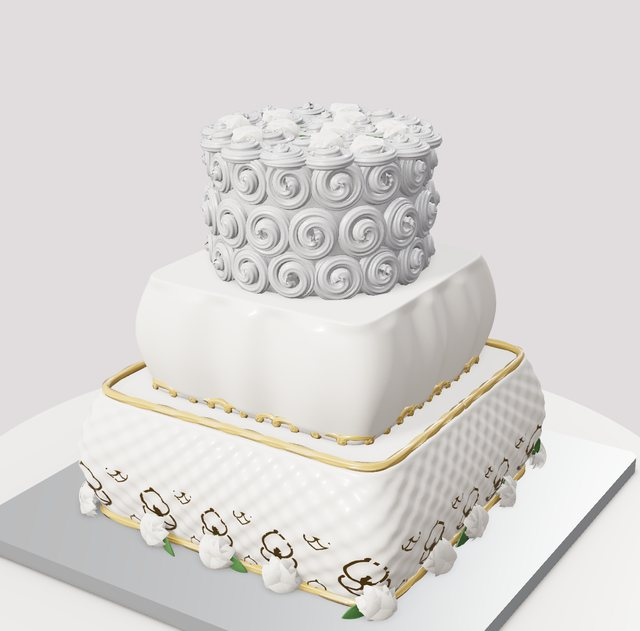
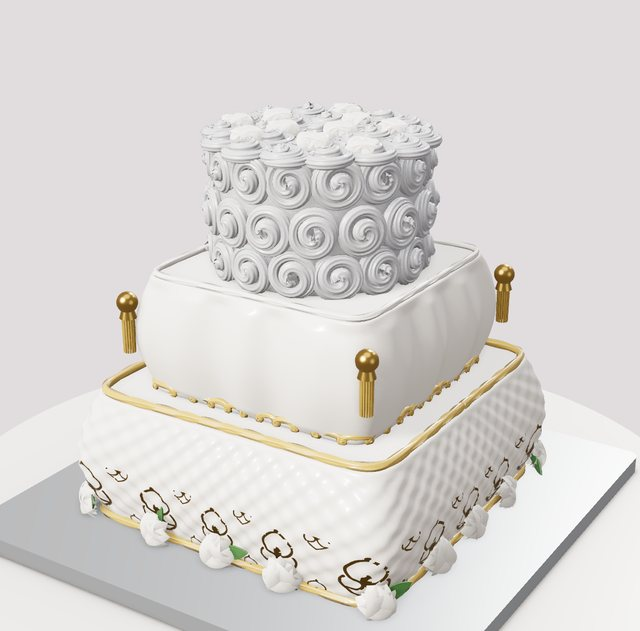
Signature pillows: gold corner tassels, piped pillow seam; new Gold Tassels decor
Claude-Session: https://claude.ai/code/session_016sN14hzH19WJ5zrp8o2QGp

diff --git a/studio.html b/studio.html
@@ -1555,6 +1555,11 @@ function pillowTopParts(q,c,mode,dc){const N=40,g=new T.PlaneGeometry(2,2,N,N);g
 DECOR.pillowtop={label:'Puffy Pillow Top',layouts:['cluster'],layout:'cluster',count:1,max:1,color:'#fbf7f1',colors:['#fbf7f1','#f3d6d9','#c9dbef'],sp:3,side:'up',sink:0,tilt:[0,0],spin:0,make:pillowTopParts};
 DECOR_ICONS.pillowtop=di('<path d="M6 22q14-14 28 0q-14 4-28 0z" fill="#fbf7f1" stroke="#d9cdbd"/><circle cx="6" cy="22" r="1.6" fill="#d4ae5a"/><circle cx="34" cy="22" r="1.6" fill="#d4ae5a"/>');
 {const c=DECOR_CATS.find(x=>x.key==='signature');void 0}
+// ---- gold tassels for pillow corners ----
+function tasselParts(q,c){const b=new T.SphereGeometry(.16,16,12);b.translate(0,0,.12);const cap=new T.CylinderGeometry(.09,.13,.14,14);cap.translate(0,-.17,.12);const fr=[];for(let i=0;i<14;i++){const a=i/14*2*PI,g=new T.CylinderGeometry(.022,.016,.55,5);g.translate(Math.cos(a)*.08,-.5,.12+Math.sin(a)*.08);fr.push(g)}return[[sgMat.metal(c),mg([b,cap])],[dmat(c,{r:.5,metal:.5}),mg(fr)]]}
+DECOR.tassel={label:'Gold Tassels',layouts:['band'],layout:'band',count:4,max:8,color:'#d4ae5a',colors:['#d4ae5a','#c9ccd2','#fbf7f1'],sp:1,roll:0,sink:0,embed:-.05,make:tasselParts};
+DECOR_ICONS.tassel=di('<circle cx="20" cy="10" r="4" fill="#d4ae5a"/><path d="M16 14h8l3 18H13z" fill="#d4ae5a"/>');
+{const c=DECOR_CATS.find(x=>x.key==='signature');c.items.push('tassel')}
 
 // ---------- Signature cakes: Sprinkle Me Silly's real cakes, rebuilt in the Studio ----------
 const SIG='Signature Cakes';
@@ -1583,7 +1588,7 @@ THEMES.unshift(
   newTier(8,6.2,{color:'#ffffff',finish:'fondant',print:'cow',printColor:'#1d1b1f',top:'none',bottom:'none',decor:[DC('cowface','band',1,{color:'#f3b6c8',size:300,R:4,rot:55,y:.3}),DC('cowear','band',1,{color:'#f3b6c8',size:200,rot:-25,y:2.6}),DC('cowear','band',1,{color:'#f3b6c8',size:200,rot:135,y:2.6}),DC('cowtop','cluster',1,{color:'#f3a6c0',size:190,center:true,face:95})]})]}},
  {key:'sig_pillows',name:'Gold Damask Pillows',tag:SIG,blurb:'A pillow cake: a base tier in gold damask with a ring of ivory roses, a puffy pleated pillow with pinched corners and gold tassels, and a silver rose dome topped with ivory roses.',d:{board:'silver',boardShape:'square',topper:'none',tiers:[
   newTier(10,3.6,{shape:'square',color:'#fbf7f1',finish:'fondant',texture:'dimple',prof:'pillow',top:'rope',pipe:'#d4ae5a',bottom:'rope',bottomColor:'#d4ae5a',stencil:{pattern:'damask',color:'#d4ae5a',size:1.8,height:1.8,y:-.8},decor:[DC('roses','band',16,{color:'#fbf7f1',size:130,y:-1.4})]}),
-  newTier(7.5,3.2,{shape:'square',color:'#fbf7f1',finish:'fondant',texture:'ruffle',prof:'pillow',top:'none',bottom:'scrolls',bottomColor:'#d4ae5a'}),
+  newTier(7.5,3.2,{shape:'square',color:'#fbf7f1',finish:'fondant',texture:'ruffle',prof:'pillow',top:'rope',pipe:'#fbf7f1',bottom:'scrolls',bottomColor:'#d4ae5a',decor:[DC('tassel','band',4,{color:'#d4ae5a',size:180,rot:45,y:.9})]}),
   newTier(5.5,3.4,{color:'#c9ccd2',texture:'rosettes',prof:'dome',top:'none',bottom:'none',decor:[DC('roses','cluster',10,{color:'#fbf7f1',size:130})]})]}},
  {key:'sig_ruffles',name:'Forever Ruffles',tag:SIG,blurb:'Four ivory fondant tiers with a sweep of ruffles, a lace band and a clean top tier ready for your script topper.',d:{board:'silver',topper:'none',tiers:[
   newTier(10,5,{color:'#fbf8f2',finish:'fondant',texture:'ruffle',top:'pearls',pipe:'#fbf8f2',bottom:'pearls',bottomColor:'#fbf8f2'}),

diff --git a/tools/signature-decor.js b/tools/signature-decor.js
@@ -223,6 +223,11 @@ function pillowTopParts(q,c,mode,dc){const N=40,g=new T.PlaneGeometry(2,2,N,N);g
 DECOR.pillowtop={label:'Puffy Pillow Top',layouts:['cluster'],layout:'cluster',count:1,max:1,color:'#fbf7f1',colors:['#fbf7f1','#f3d6d9','#c9dbef'],sp:3,side:'up',sink:0,tilt:[0,0],spin:0,make:pillowTopParts};
 DECOR_ICONS.pillowtop=di('<path d="M6 22q14-14 28 0q-14 4-28 0z" fill="#fbf7f1" stroke="#d9cdbd"/><circle cx="6" cy="22" r="1.6" fill="#d4ae5a"/><circle cx="34" cy="22" r="1.6" fill="#d4ae5a"/>');
 {const c=DECOR_CATS.find(x=>x.key==='signature');void 0}
+// ---- gold tassels for pillow corners ----
+function tasselParts(q,c){const b=new T.SphereGeometry(.16,16,12);b.translate(0,0,.12);const cap=new T.CylinderGeometry(.09,.13,.14,14);cap.translate(0,-.17,.12);const fr=[];for(let i=0;i<14;i++){const a=i/14*2*PI,g=new T.CylinderGeometry(.022,.016,.55,5);g.translate(Math.cos(a)*.08,-.5,.12+Math.sin(a)*.08);fr.push(g)}return[[sgMat.metal(c),mg([b,cap])],[dmat(c,{r:.5,metal:.5}),mg(fr)]]}
+DECOR.tassel={label:'Gold Tassels',layouts:['band'],layout:'band',count:4,max:8,color:'#d4ae5a',colors:['#d4ae5a','#c9ccd2','#fbf7f1'],sp:1,roll:0,sink:0,embed:-.05,make:tasselParts};
+DECOR_ICONS.tassel=di('<circle cx="20" cy="10" r="4" fill="#d4ae5a"/><path d="M16 14h8l3 18H13z" fill="#d4ae5a"/>');
+{const c=DECOR_CATS.find(x=>x.key==='signature');c.items.push('tassel')}
 
 // ---------- Signature cakes: Sprinkle Me Silly's real cakes, rebuilt in the Studio ----------
 const SIG='Signature Cakes';
@@ -251,7 +256,7 @@ THEMES.unshift(
   newTier(8,6.2,{color:'#ffffff',finish:'fondant',print:'cow',printColor:'#1d1b1f',top:'none',bottom:'none',decor:[DC('cowface','band',1,{color:'#f3b6c8',size:300,R:4,rot:55,y:.3}),DC('cowear','band',1,{color:'#f3b6c8',size:200,rot:-25,y:2.6}),DC('cowear','band',1,{color:'#f3b6c8',size:200,rot:135,y:2.6}),DC('cowtop','cluster',1,{color:'#f3a6c0',size:190,center:true,face:95})]})]}},
  {key:'sig_pillows',name:'Gold Damask Pillows',tag:SIG,blurb:'A pillow cake: a base tier in gold damask with a ring of ivory roses, a puffy pleated pillow with pinched corners and gold tassels, and a silver rose dome topped with ivory roses.',d:{board:'silver',boardShape:'square',topper:'none',tiers:[
   newTier(10,3.6,{shape:'square',color:'#fbf7f1',finish:'fondant',texture:'dimple',prof:'pillow',top:'rope',pipe:'#d4ae5a',bottom:'rope',bottomColor:'#d4ae5a',stencil:{pattern:'damask',color:'#d4ae5a',size:1.8,height:1.8,y:-.8},decor:[DC('roses','band',16,{color:'#fbf7f1',size:130,y:-1.4})]}),
-  newTier(7.5,3.2,{shape:'square',color:'#fbf7f1',finish:'fondant',texture:'ruffle',prof:'pillow',top:'none',bottom:'scrolls',bottomColor:'#d4ae5a'}),
+  newTier(7.5,3.2,{shape:'square',color:'#fbf7f1',finish:'fondant',texture:'ruffle',prof:'pillow',top:'rope',pipe:'#fbf7f1',bottom:'scrolls',bottomColor:'#d4ae5a',decor:[DC('tassel','band',4,{color:'#d4ae5a',size:180,rot:45,y:.9})]}),
   newTier(5.5,3.4,{color:'#c9ccd2',texture:'rosettes',prof:'dome',top:'none',bottom:'none',decor:[DC('roses','cluster',10,{color:'#fbf7f1',size:130})]})]}},
  {key:'sig_ruffles',name:'Forever Ruffles',tag:SIG,blurb:'Four ivory fondant tiers with a sweep of ruffles, a lace band and a clean top tier ready for your script topper.',d:{board:'silver',topper:'none',tiers:[
   newTier(10,5,{color:'#fbf8f2',finish:'fondant',texture:'ruffle',top:'pearls',pipe:'#fbf8f2',bottom:'pearls',bottomColor:'#fbf8f2'}),

diff --git a/tools/sig-themes.js b/tools/sig-themes.js
@@ -25,7 +25,7 @@ THEMES.unshift(
   newTier(8,6.2,{color:'#ffffff',finish:'fondant',print:'cow',printColor:'#1d1b1f',top:'none',bottom:'none',decor:[DC('cowface','band',1,{color:'#f3b6c8',size:300,R:4,rot:55,y:.3}),DC('cowear','band',1,{color:'#f3b6c8',size:200,rot:-25,y:2.6}),DC('cowear','band',1,{color:'#f3b6c8',size:200,rot:135,y:2.6}),DC('cowtop','cluster',1,{color:'#f3a6c0',size:190,center:true,face:95})]})]}},
  {key:'sig_pillows',name:'Gold Damask Pillows',tag:SIG,blurb:'A pillow cake: a base tier in gold damask with a ring of ivory roses, a puffy pleated pillow with pinched corners and gold tassels, and a silver rose dome topped with ivory roses.',d:{board:'silver',boardShape:'square',topper:'none',tiers:[
   newTier(10,3.6,{shape:'square',color:'#fbf7f1',finish:'fondant',texture:'dimple',prof:'pillow',top:'rope',pipe:'#d4ae5a',bottom:'rope',bottomColor:'#d4ae5a',stencil:{pattern:'damask',color:'#d4ae5a',size:1.8,height:1.8,y:-.8},decor:[DC('roses','band',16,{color:'#fbf7f1',size:130,y:-1.4})]}),
-  newTier(7.5,3.2,{shape:'square',color:'#fbf7f1',finish:'fondant',texture:'ruffle',prof:'pillow',top:'none',bottom:'scrolls',bottomColor:'#d4ae5a'}),
+  newTier(7.5,3.2,{shape:'square',color:'#fbf7f1',finish:'fondant',texture:'ruffle',prof:'pillow',top:'rope',pipe:'#fbf7f1',bottom:'scrolls',bottomColor:'#d4ae5a',decor:[DC('tassel','band',4,{color:'#d4ae5a',size:180,rot:45,y:.9})]}),
   newTier(5.5,3.4,{color:'#c9ccd2',texture:'rosettes',prof:'dome',top:'none',bottom:'none',decor:[DC('roses','cluster',10,{color:'#fbf7f1',size:130})]})]}},
  {key:'sig_ruffles',name:'Forever Ruffles',tag:SIG,blurb:'Four ivory fondant tiers with a sweep of ruffles, a lace band and a clean top tier ready for your script topper.',d:{board:'silver',topper:'none',tiers:[
   newTier(10,5,{color:'#fbf8f2',finish:'fondant',texture:'ruffle',top:'pearls',pipe:'#fbf8f2',bottom:'pearls',bottomColor:'#fbf8f2'}),

diff --git a/tools/sig-extra.js b/tools/sig-extra.js
@@ -48,3 +48,8 @@ function pillowTopParts(q,c,mode,dc){const N=40,g=new T.PlaneGeometry(2,2,N,N);g
 DECOR.pillowtop={label:'Puffy Pillow Top',layouts:['cluster'],layout:'cluster',count:1,max:1,color:'#fbf7f1',colors:['#fbf7f1','#f3d6d9','#c9dbef'],sp:3,side:'up',sink:0,tilt:[0,0],spin:0,make:pillowTopParts};
 DECOR_ICONS.pillowtop=di('<path d="M6 22q14-14 28 0q-14 4-28 0z" fill="#fbf7f1" stroke="#d9cdbd"/><circle cx="6" cy="22" r="1.6" fill="#d4ae5a"/><circle cx="34" cy="22" r="1.6" fill="#d4ae5a"/>');
 {const c=DECOR_CATS.find(x=>x.key==='signature');void 0}
+// ---- gold tassels for pillow corners ----
+function tasselParts(q,c){const b=new T.SphereGeometry(.16,16,12);b.translate(0,0,.12);const cap=new T.CylinderGeometry(.09,.13,.14,14);cap.translate(0,-.17,.12);const fr=[];for(let i=0;i<14;i++){const a=i/14*2*PI,g=new T.CylinderGeometry(.022,.016,.55,5);g.translate(Math.cos(a)*.08,-.5,.12+Math.sin(a)*.08);fr.push(g)}return[[sgMat.metal(c),mg([b,cap])],[dmat(c,{r:.5,metal:.5}),mg(fr)]]}
+DECOR.tassel={label:'Gold Tassels',layouts:['band'],layout:'band',count:4,max:8,color:'#d4ae5a',colors:['#d4ae5a','#c9ccd2','#fbf7f1'],sp:1,roll:0,sink:0,embed:-.05,make:tasselParts};
+DECOR_ICONS.tassel=di('<circle cx="20" cy="10" r="4" fill="#d4ae5a"/><path d="M16 14h8l3 18H13z" fill="#d4ae5a"/>');
+{const c=DECOR_CATS.find(x=>x.key==='signature');c.items.push('tassel')}
